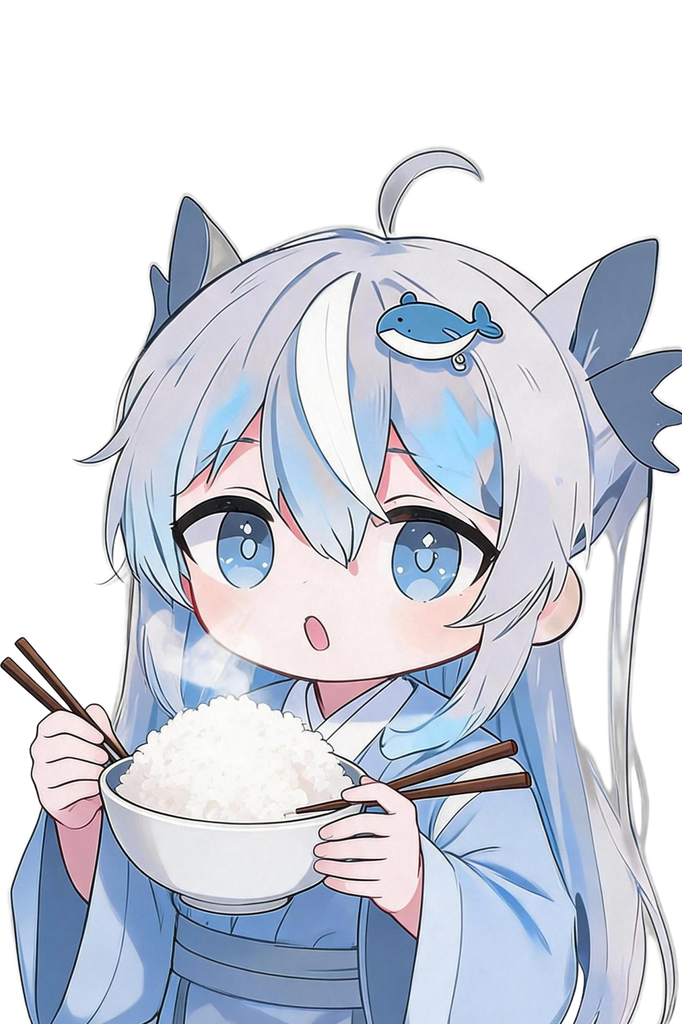
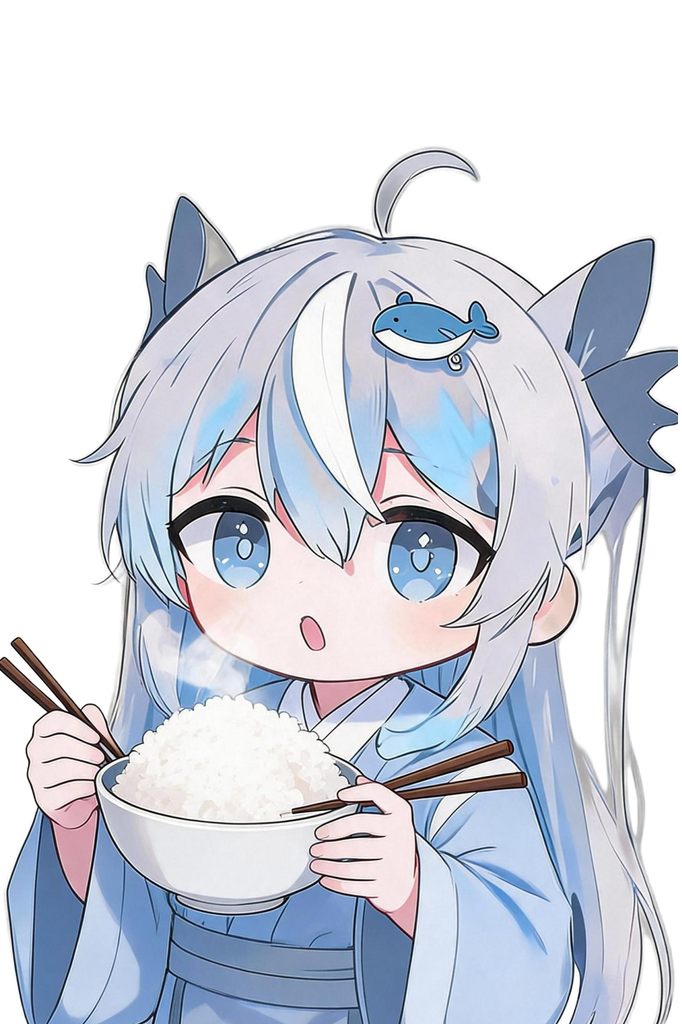
assets(defect1): 入库裁版饥饿贴边立绘 + 底部贴边饥饿图（微信侧交付）
- flash_peek_hungry.png 更新为**裁版**（左边界 4px 稀疏透明列已裁；797,770 B，与交付件逐字节一致）
- 新增 flash_peek_bottom_hungry.png（1024x662 RGBA 294,433 B，交付件里未在件中声明，按标准命名一并入库并回问确认）
- 护栏扩展为覆盖两件（尺寸/模式/透明通道非空/主体触底）
- 实测记录（写入用例 docstring）：左上主体盒 99% vs 参考 65%；底部 35% vs 参考 100%
  -> 贴边对齐本身一致（同尺寸同 scale/draw_x），差异只在主体占比；是否缩/补透明画布待 Owner 定，不动图
- 基线 873 passed / 9 skipped（用例数不变）

diff --git a/tests/test_hungry_dock.py b/tests/test_hungry_dock.py
@@ -221,23 +221,27 @@ def test_restore_display_state_sleep_wins():
 
 # ── ② 气泡 emoji 池 ─────────────────────────────────────────────────
 def test_hungry_peek_asset_present_and_spec():
-    """批 D：饥饿贴边资产**在库** ✓（尺寸/模式对齐参考图 ✓）—— 防以后被误删 ✗
+    """批 D/F：饥饿贴边资产**在库** ✓（尺寸/模式对齐参考图 ✓）—— 防以后被误删 ✗
 
-    ⚠ 已知差异（微信侧 2026-09-25 提示 + 我方实测 ✓ **未动图** ✗ 等决策）：
-      本图 alpha 主体盒 = (0,143,682,1024) → **占满全宽 100%** ✗
-      参考 `flash_peek.png` = (12,233,452,1024) → **只占左侧 65%** ✗
-      → 渲染画布放置逻辑相同（同尺寸 682×1024 ✓）→ 差异在**主体占比** ✓ 贴边时会显更宽更高 ✗
-      → 若要对齐属**资产侧**调整（缩到 65% + 左对齐 + 顶边对齐 233）→ 待微信侧问 Owner ✓ 我不擅自改图 ✗
+    批 F：入库**裁版**（微信侧执行「裁」✓：左边界 4px 稀疏透明列已裁）。
+    ⚠ 已知差异（微信侧提示 + 我方实测 ✓ **未动图** ✗ 等 Owner 定）：
+      左/右：本图主体盒 (0,143,678,1024) → **占满 99%** ✗；参考 `flash_peek.png` = (12,233,452,1024) → **65%** ✗
+      底部：本图主体盒 (331,195,693,662) → **仅 35%** ✗；参考 `flash_peek_bottom.png` = (0,1,1024,660) → **100%** ✗
+      → 贴边对齐**没问题**（同尺寸 → 同 scale/同 draw_x ✓），差异都在**主体占比** ✗
+      → 若要对齐属**资产侧**调整（缩/补透明画布 ✓ 已问 Owner ✓ 等定 ✗）
     """
     from PIL import Image
-    p = ROOT / 'assets' / 'flash' / 'flash_peek_hungry.png'
-    assert p.is_file(), 'flash_peek_hungry.png 缺失 ✗（贴边饥饿会回落到普通贴边图）'
-    with Image.open(p) as im:
-        assert im.size == (682, 1024), f'尺寸应与 flash_peek.png 一致 ✓ 实得 {im.size}'
-        assert im.mode == 'RGBA', im.mode
-        bb = im.split()[-1].getbbox()
-        assert bb is not None, '透明通道为空 ✗'
-        assert bb[3] == im.height, '主体应触底（贴边对齐用）✗'
+    specs = (('flash_peek_hungry.png', (682, 1024)),
+             ('flash_peek_bottom_hungry.png', (1024, 662)))
+    for name, size in specs:
+        p = ROOT / 'assets' / 'flash' / name
+        assert p.is_file(), f'{name} 缺失 ✗（贴边饥饿会回落到普通贴边图）'
+        with Image.open(p) as im:
+            assert im.size == size, f'{name} 尺寸应与参考图一致 ✓ 实得 {im.size}'
+            assert im.mode == 'RGBA', im.mode
+            bb = im.split()[-1].getbbox()
+            assert bb is not None, f'{name} 透明通道为空 ✗'
+            assert bb[3] == im.height, f'{name} 主体应触底（贴边对齐用）✗'
 
 
 def test_pro_peek_assets_waiting_for_hungry():
